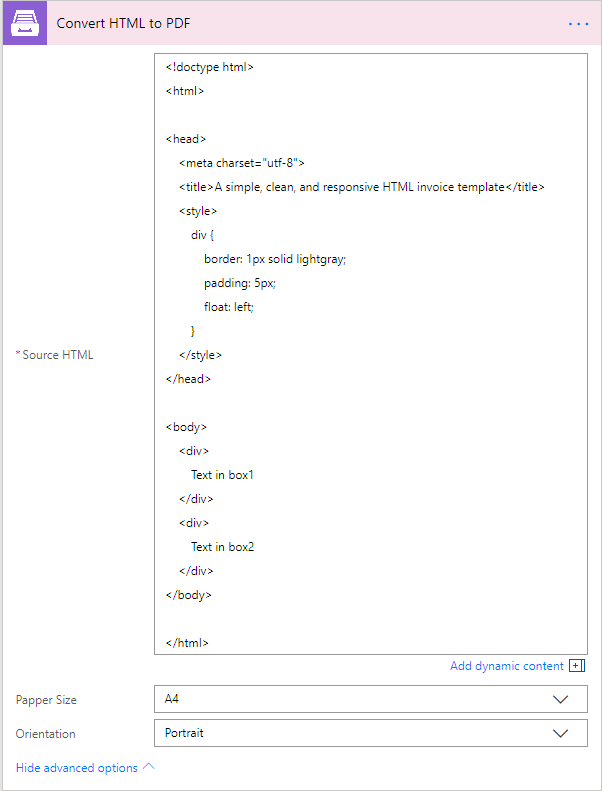
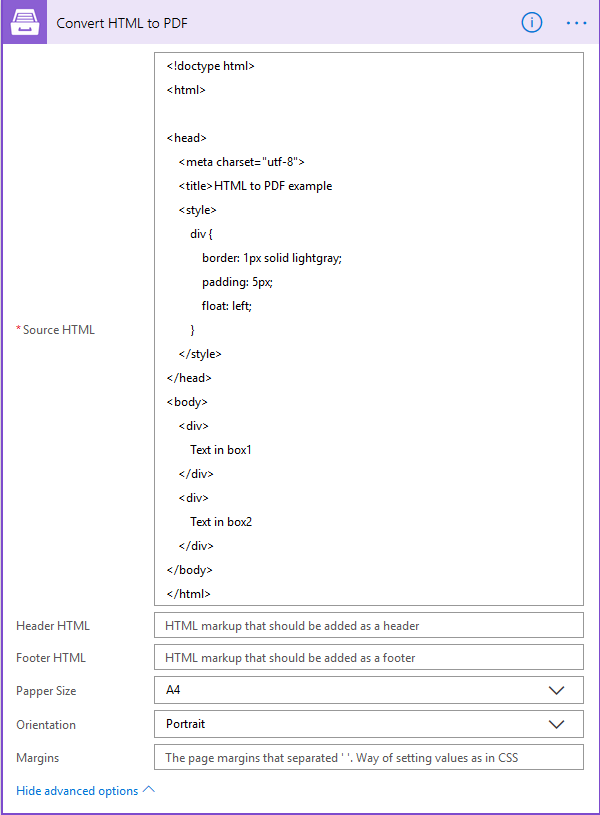
ConvertHTML

Changed region(s): [[0.0, 0.0, 1.0, 1.0]]

diff --git a/source/flow/actions/document-processing.rst b/source/flow/actions/document-processing.rst
@@ -440,6 +440,8 @@ Convert HTML to PDF
 
 Converts HTML document to PDF document with the help of Microsoft Flow. You can find more examples in `this article <../how-tos/documents/convert-html-to-pdf.html>`_.
 
+Note: At this moment options: Header HTML, Footer HTML and Margins are only available in custom connector. Please read `here <../flow/create-custom-connector.html>`_ how to create one.
+
 .. rubric:: Output Parameters
 
 .. list-table::
